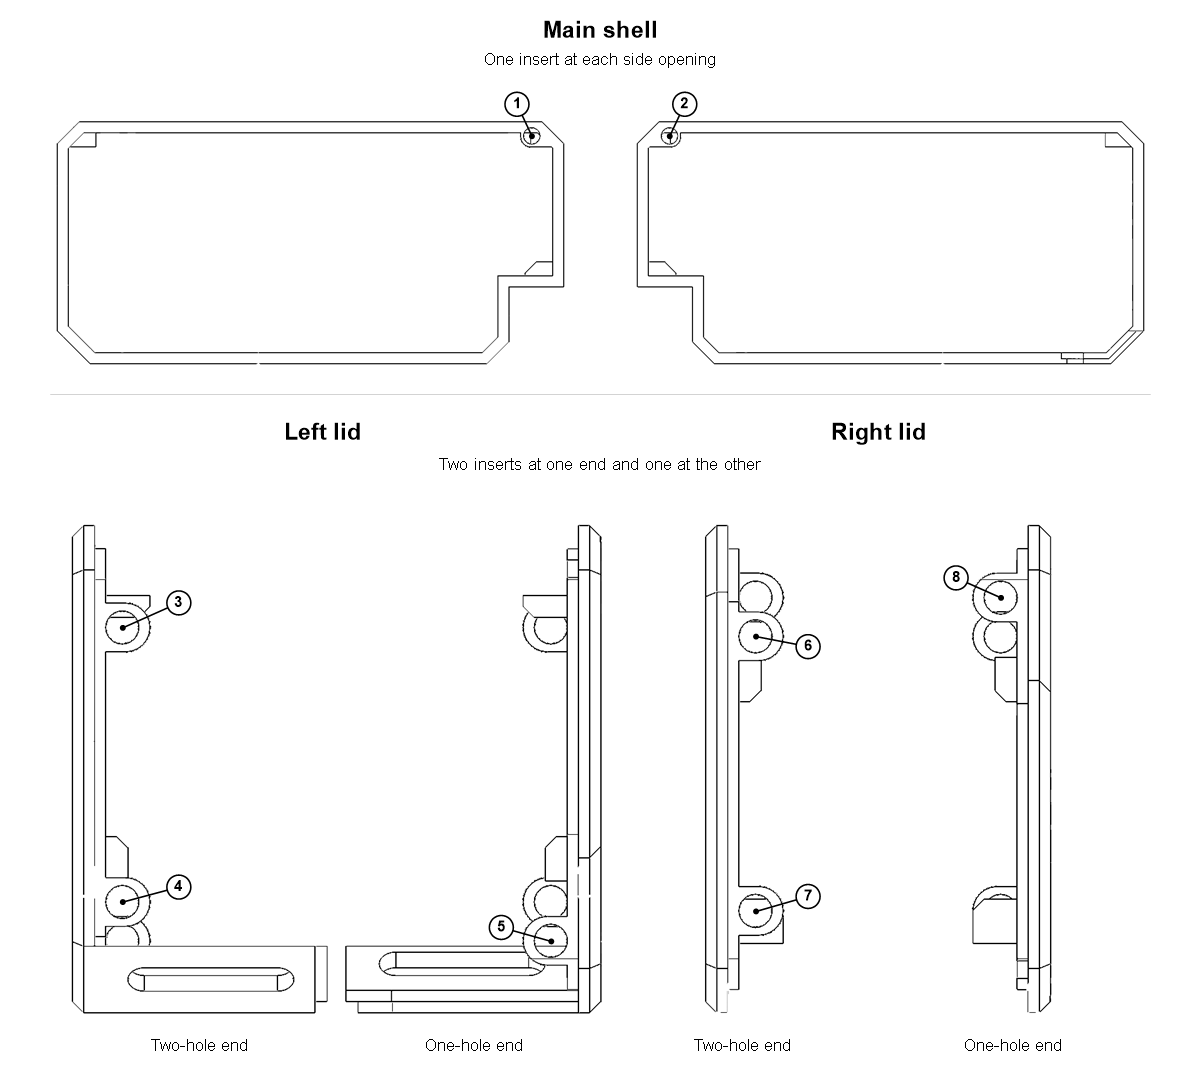
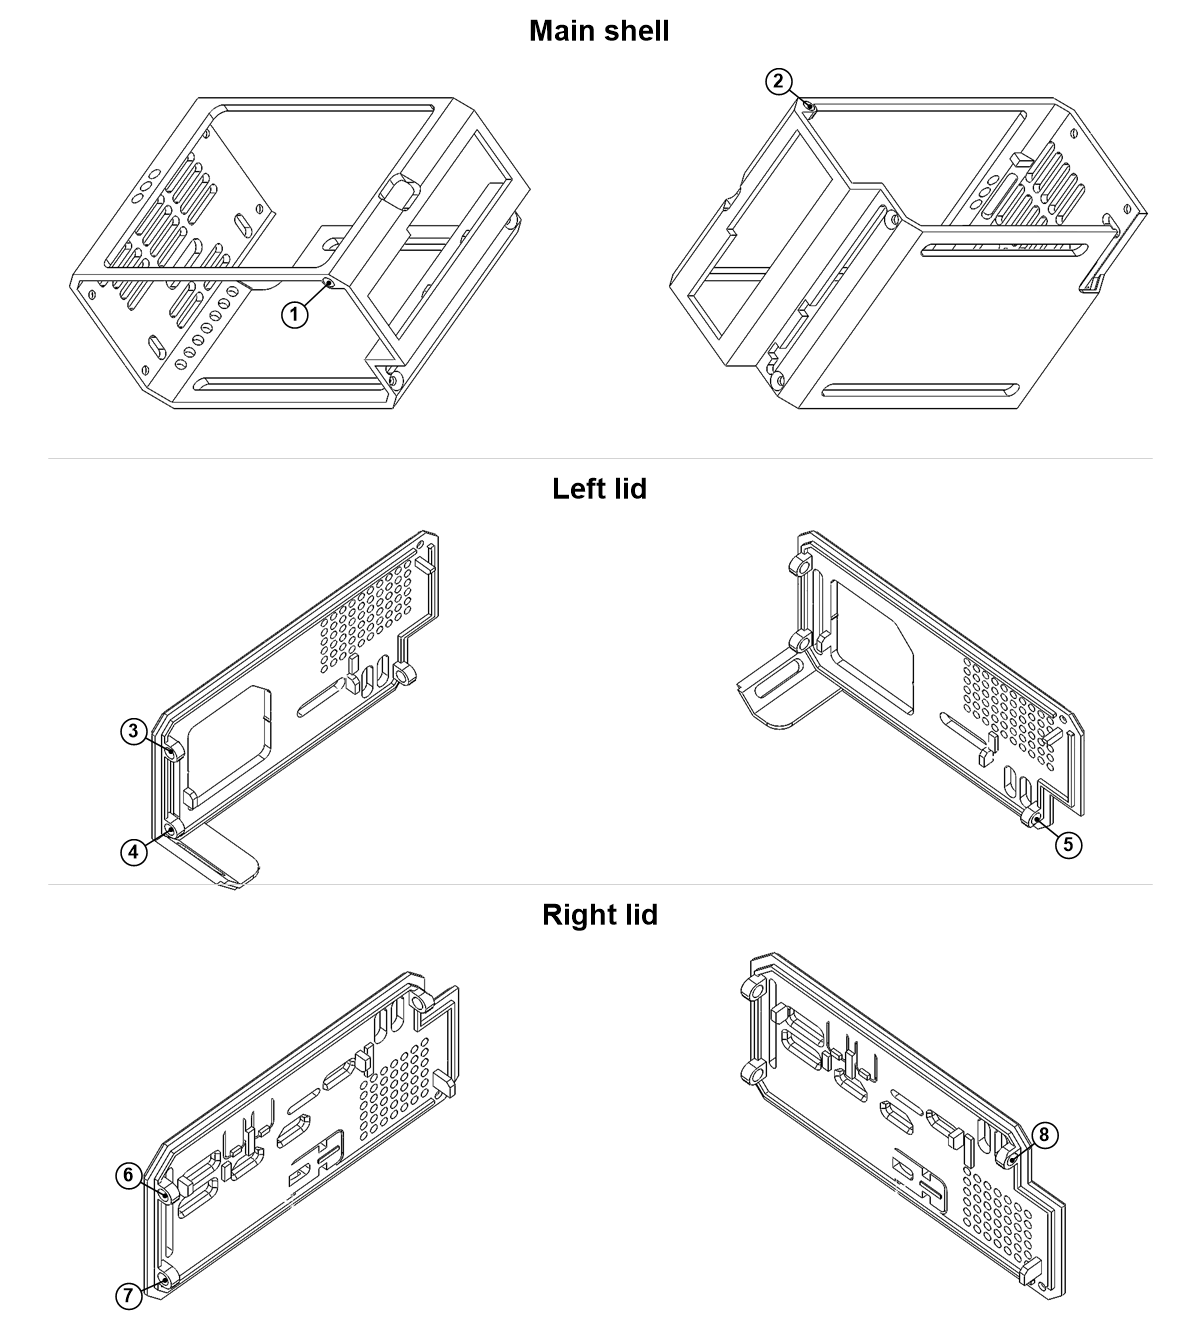
Show WhisPlay Plus insert locations in angled views

diff --git a/pi5-whisplay-plus-chatbot/README.md b/pi5-whisplay-plus-chatbot/README.md
@@ -17,7 +17,7 @@
 
 Install one insert at each numbered location before fitting the lids. The main shell takes two inserts, one at each side opening. Each lid takes three inserts, two at one end and one at the other. Seat the inserts flush with the hole openings, then secure the case with the eight countersunk screws.
 
-![Eight threaded insert locations shown in SolidWorks end views of the main shell and both lids](insert-nut-locations.png)
+![Eight threaded insert locations on the main shell and both lids, shown in SolidWorks views rotated 45° about each of two axes](insert-nut-locations.png)
 
 ## Optional camera mount
 
